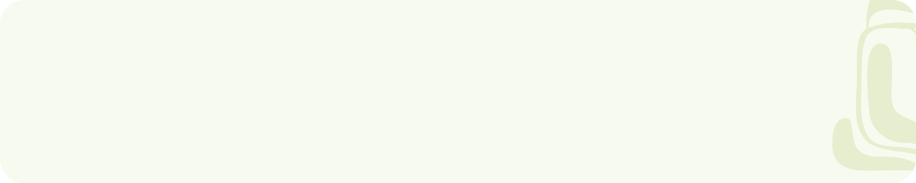
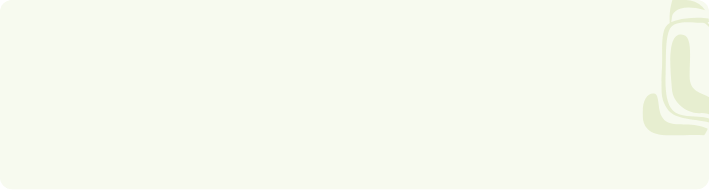
Tema 7

Changed region(s): [[0.8986, 0.0546, 1.0, 0.929], [0.9606, 0.0273, 0.9915, 0.0546]]

diff --git a/src/views/Tema7.vue b/src/views/Tema7.vue
@@ -1,12 +1,178 @@
 <template lang="pug">
-  .curso-main-container.pb-3
-    BannerInterno
-    .container.tarjeta.tarjeta--blanca.p-4.p-md-5.mb-5
-      .titulo-principal.color-acento-contenido
-        .titulo-principal__numero
-          span 7
-        h1 Tema 7
+.curso-main-container.pb-3
+  BannerInterno
+  .container.tarjeta.tarjeta--blanca.p-4.p-md-5.mb-5
+    .titulo-principal.color-acento-contenido
+      .titulo-principal__numero
+        span 7
+      h1 Pronóstico de ocupación
+
+    .mt-5.pt-4
+      .fullwidth-bg.fullwidth-bg--1
+      img(src='@/assets/curso/tema7/1.png' alt='' data-aos="zoom-in-down")
+
+    .row.justify-content-center.z-2.mb-3
+      .col-lg-10.p-4.drop-shadow(data-aos="fade-down")
+        div.banner-text.shadow
+          p.mb-0 El pronóstico de ocupación es un proceso fundamental en la operación hotelera, ya que permite anticipar el comportamiento de la demanda y planificar de manera adecuada los recursos necesarios para la prestación del servicio. Su aplicación facilita la organización de las diferentes áreas operativas del establecimiento, contribuyendo a mejorar la eficiencia, la productividad y la atención al huésped.
   
+  
+    separador
+    #t_7_1.titulo-segundo.color-acento-contenido(data-aos="flip-up")
+      h2 7.1 Definición e importancia
+    
+    .row.justify-content-center.align-items-center.mb-4.mb-lg-5
+      .col-sm-8.col-lg-4
+        figure
+          img.mb-4.mb-lg-0(src="@/assets/curso/tema7/2.png", alt="" data-aos="zoom-in-down")
+      .col-lg-8
+        p El pronóstico de ocupación es una herramienta utilizada para estimar la cantidad de habitaciones que serán utilizadas durante un periodo determinado. Su aplicación permite anticipar el comportamiento de la demanda, facilitando la planificación de recursos, la organización de las actividades operativas y la toma de decisiones relacionadas con la prestación del servicio hotelero.
+        .p-4.bg-terciario-t5.mb-4.rounded-4
+          p.mb-0 En el área de alojamiento, esta proyección favorece la planificación del personal, el control del consumo de suministros, la organización de la disponibilidad de habitaciones y la optimización de los tiempos de operación. Además, fortalece la coordinación entre áreas como recepción, ama de llaves, mantenimiento y alimentos y bebidas, contribuyendo a una operación más eficiente y organizada.
+
+    .bg-title.bg-title--lg.p-3.rounded-5.pe-5.mb-4(data-aos="fade-down-right")
+      h5.mb-0 Importancia para el departamento de pisos
+    
+    .bg-secundario-s5.p-4.rounded-4.mb-4
+      p.mb-0 Permite al ama de llaves saber con antelación cuántas camareras debe programar, cuánta lencería debe enviar a lavandería y qué cantidad de suministros debe solicitar al almacén. Sin un pronóstico, se corre el riesgo de tener exceso de personal (gastos innecesarios) o falta de este (mala calidad en el servicio).
+
+    separador
+
+    #t_7_2.titulo-segundo.color-acento-contenido(data-aos="flip-up")
+      h2 7.2 Utilidad del pronóstico
+    
+    .row.justify-content-center.align-items-center.mb-4.mb-lg-5
+      .col-sm-8.col-lg-4
+        figure
+          img.mb-4.mb-lg-0(src="@/assets/curso/tema7/3.png", alt="" data-aos="zoom-in-down")
+      .col-lg-8
+        p La utilidad del pronóstico de ocupación se basa en la capacidad de anticipar las necesidades operativas y administrativas del servicio hotelero, permitiendo planificar de forma más eficiente los recursos humanos, materiales y logísticos necesarios para la atención de los huéspedes. Esta herramienta favorece la organización de las actividades diarias y contribuye a mantener la continuidad y calidad de la operación.
+        .p-4.bg-acento-contenido-a5.mb-4.rounded-4.mb-3
+          p.mb-0 Asimismo, el pronóstico permite identificar temporadas de alta y baja ocupación, facilitando el ajuste de estrategias operativas, comerciales y administrativas según el comportamiento esperado de la demanda. Además, ayuda a prevenir sobrecostos, reducir desperdicios y garantizar una adecuada prestación del servicio al huésped.
+        p.mb-0 El uso correcto de esta herramienta impacta en cuatro áreas clave:
+
+    .row.justify-content-center.align-items-center
+      .col-lg-6
+        SlyderA(tipo="b").bg-acento-botones-a5.p-4.tarjeta.h-100.mb-4.mb-lg-0
+          .row.justify-content-center.align-items-center.mb-5
+            .col-lg-11
+              h4 Programación de turnos
+              p.mb-0 Optimiza el cuadro de horarios del personal (camareras, auxiliares de habitaciones y limpiadores).
+          .row.justify-content-center.align-items-center.mb-5
+            .col-lg-11
+              h4 Gestión de compras
+              p.mb-0 Define las cantidades de pedidos de suministros (jabones, papel higiénico, químicos) evitando el desabastecimiento.
+          .row.justify-content-center.align-items-center.mb-5
+            .col-lg-11
+              h4 Mantenimiento programado
+              p.mb-0 Identifica las fechas de baja ocupación para bloquear habitaciones y realizar reparaciones profundas o pintura sin afectar las ventas.
+          .row.justify-content-center.align-items-center.mb-5
+            .col-lg-11
+              h4 Control de presupuesto
+              p.mb-0 Ayuda a controlar los costos variables que dependen directamente del número de huéspedes.
+      .col-sm-11.col-lg-6
+        figure
+          img(src="@/assets/curso/tema7/4.png", alt="" data-aos="zoom-in-down")
+
+    separador
+
+    #t_7_3.titulo-segundo.color-acento-contenido(data-aos="flip-up")
+      h2 7.3 Procedimiento de estimación
+
+    .p-4.bg-terciario-t5.rounded-4.mb-4
+      p.mb-0 Para calcular la ocupación prevista, se sigue un proceso lógico de recolección de datos, el cual consta de lo siguiente:
+    
+    .row.justify-content-center.align-items-stretch.mb-5
+      .col-sm-6.col-lg-5.col-xl-3.mb-4.mb-xl-0
+        .tarjeta.bg-img.bg-img--13.p-4.py-5.h-100
+          .row.justify-content-center.mb-3
+            .col-6
+              img.w-125.mb-4(src='@/assets/curso/tema7/5.svg' alt='')
+          h4.text-center Recopilación de datos
+          p.mb-0 Se toma el total de habitaciones del hotel (capacidad instalada).
+      .col-sm-6.col-lg-5.col-xl-3.mb-4.mb-xl-0
+        .tarjeta.bg-img.bg-img--13.p-4.py-5.h-100
+          .row.justify-content-center.mb-3
+            .col-6
+              img.w-125.mb-4(src='@/assets/curso/tema7/6.svg' alt='')
+          h4.text-center Análisis de reservas
+          p.mb-0 Se suman las reservas confirmadas, los grupos bloqueados y el promedio histórico de clientes que llegan sin reserva (walk-ins).
+      .col-sm-6.col-lg-5.col-xl-3.mb-4.mb-sm-0
+        .tarjeta.bg-img.bg-img--13.p-4.py-5.h-100
+          .row.justify-content-center.mb-3
+            .col-6
+              img.w-125.mb-4(src='@/assets/curso/tema7/7.svg' alt='')
+          h4.text-center Cálculo del porcentaje de ocupación: 
+          p.mb-0 Se aplica la fórmula técnica para obtener el indicador.
+
+    .bg-title.bg-title--lg.p-3.rounded-5.pe-5.mb-4(data-aos="fade-down-right")
+      h5.mb-0 Fórmula de ocupación:
+    
+    .row.justify-content-center
+      .col-lg-10.col-xl-8
+        figure
+          img(src="@/assets/curso/tema7/8.svg", alt="" data-aos="zoom-in-down")
+
+    .bg-title.bg-title--lg.p-3.rounded-5.pe-5.mb-4(data-aos="fade-down-right")
+      h5.mb-0 Ejemplo de aplicación:
+    
+    .row.justify-content-center.align-items-center.mb-4.mb-lg-5
+      .col-sm-10.col-lg-5
+        figure
+          img.mb-4.mb-lg-0(src="@/assets/curso/tema7/9.png", alt="" data-aos="zoom-in-down")
+      .col-lg-7
+        .p-5.bg-img.bg-img--8.rounded-4
+          p.py-2.mb-4 Si el hotel tiene 100 habitaciones y el sistema reporta 75 reservas para el lunes:
+          p.mb-0 75 / 100 x 100 = 75 % de ocupación.
+
+    separador
+
+    #t_7_4.titulo-segundo.color-acento-contenido(data-aos="flip-up")
+      h2 7.4 Variables que afectan el pronóstico
+
+    .row.justify-content-center.align-items-center.mb-4.mb-lg-5.z-2
+      .col-lg-8
+        p El pronóstico de ocupación puede verse afectado por diferentes variables internas y externas que influyen en el comportamiento de la demanda en los establecimientos de alojamiento. El análisis de estos factores permite realizar estimaciones más precisas sobre la cantidad de habitaciones que podrían ocuparse durante un periodo determinado, facilitando la planificación y organización de la operación hotelera.
+        .p-4.bg-secundario-s5.rounded-4.mb-3
+          p.mb-0 Entre las principales variables se encuentran las temporadas turísticas, eventos locales, reservas confirmadas, cancelaciones, historial de ocupación y tendencias del mercado. También influyen aspectos como las condiciones económicas, las tarifas, la competencia, la ubicación del establecimiento y las condiciones climáticas.
+        p.mb-0 De igual manera, factores operativos como habitaciones fuera de servicio, mantenimientos programados, capacidad instalada y disponibilidad de personal pueden modificar las proyecciones de ocupación. Asimismo, situaciones externas como festividades, vacaciones o emergencias pueden generar variaciones significativas en la demanda.
+      .col-sm-8.col-lg-4
+        figure
+          img(data-aos="fade-down-right", src="@/assets/curso/tema7/10.png", alt="")
+    
+    .p-4.bg-secundario-s10.rounded-4.mb-4
+      p.mb-0 El coordinador debe estar atento a factores externos que pueden alterar la estimación inicial:
+
+    .row.justify-content-center.align-items-center.mb-4.mb-lg-5
+      .col-sm-10.col-lg-5
+        figure
+          img.mb-4.mb-lg-0(src="@/assets/curso/tema7/11.png", alt="" data-aos="zoom-in-down")
+      .col-lg-7
+        LineaTiempoD.color-primario
+          .row(numero="1" titulo="Cancelaciones de último momento: ")
+            .col-auto
+              p.mb-0 reducen la ocupación prevista.
+          .row(numero="2" titulo="No-shows: ")
+            .col-auto
+              p.mb-0 huéspedes con reserva que no se presentan.
+          .row(numero="3" titulo="Salidas anticipadas o prolongaciones de estancia: ")
+            .col-auto
+              p.mb-0 huéspedes huéspedes que deciden irse antes o quedarse más días de lo planeado.
+          .row(numero="4" titulo="Eventos locales: ")
+            .col-auto
+              p.mb-0 huéspedes ferias, congresos o festividades que aumentan la demanda inesperadamente.
+
+
+
+
+
+
+
+
+
+
+
+
   
   </template>
 